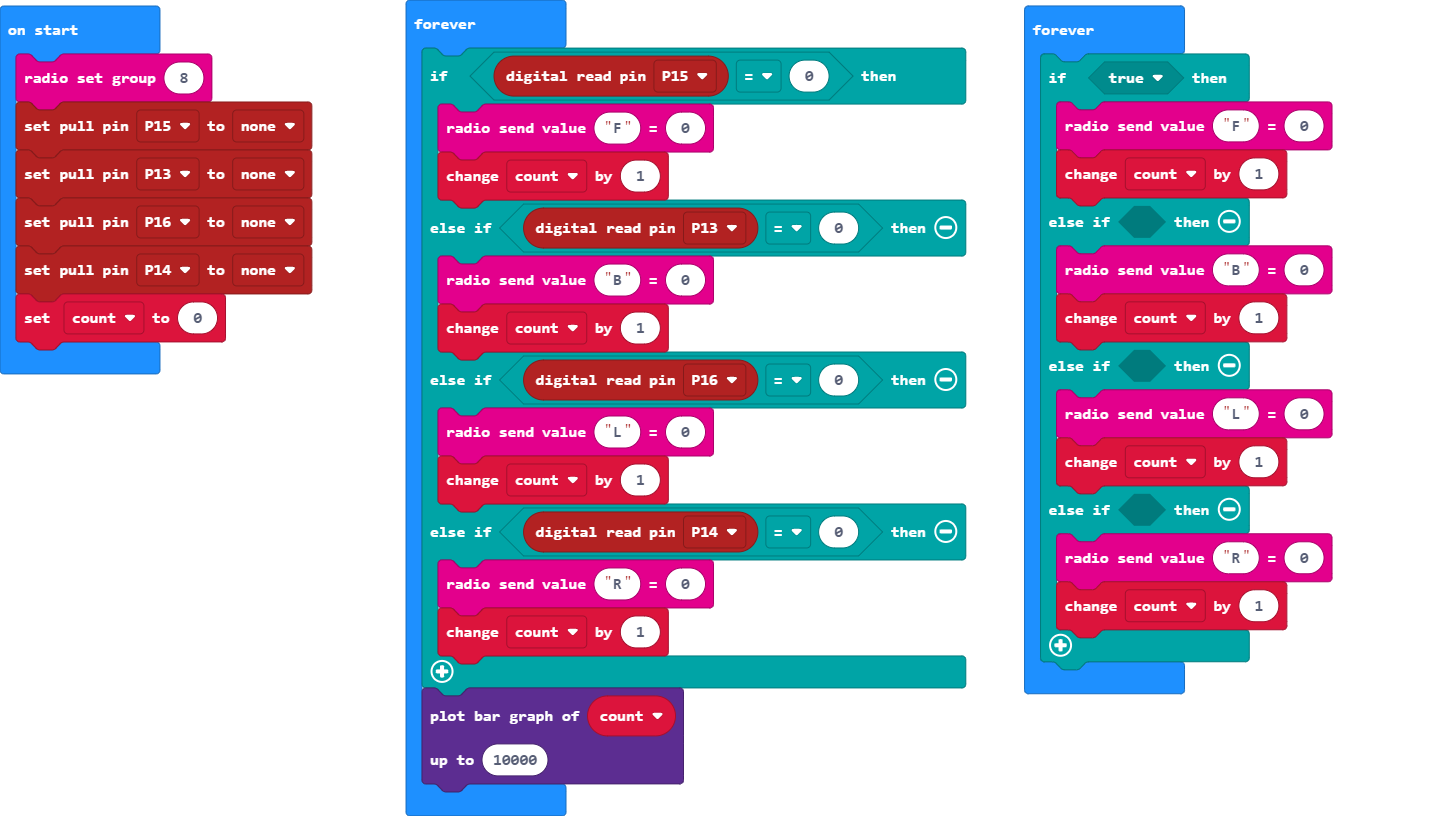
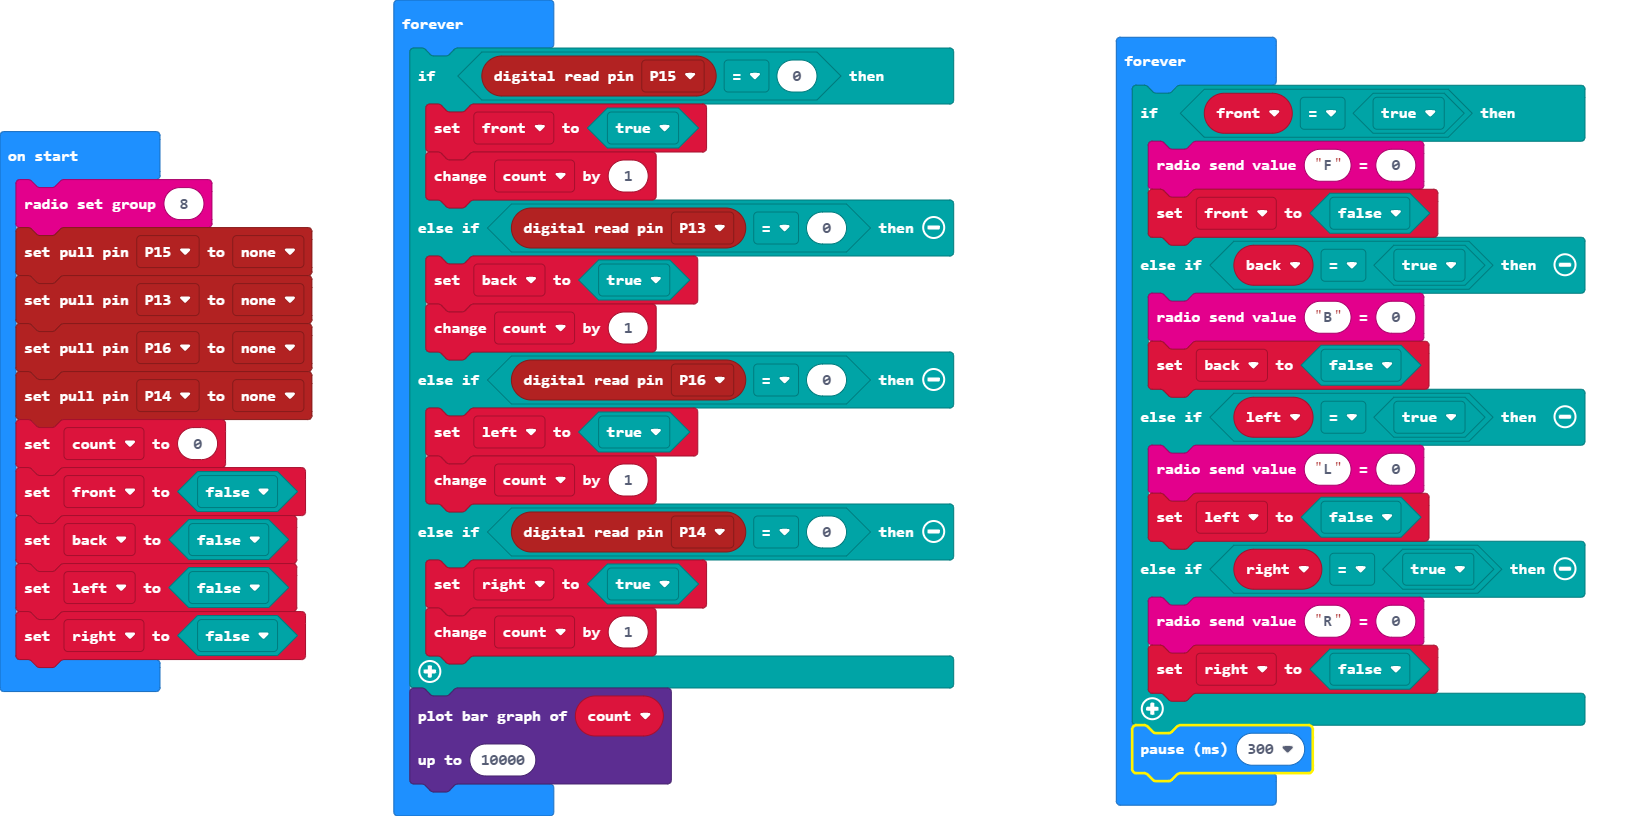
Update main.blocks, main.ts

diff --git a/main.ts b/main.ts
@@ -4,18 +4,22 @@ pins.setPull(DigitalPin.P13, PinPullMode.PullNone)
 pins.setPull(DigitalPin.P16, PinPullMode.PullNone)
 pins.setPull(DigitalPin.P14, PinPullMode.PullNone)
 let count = 0
+let front = false
+let back = false
+let left = false
+let right = false
 basic.forever(function () {
     if (pins.digitalReadPin(DigitalPin.P15) == 0) {
-        radio.sendValue("F", 0)
+        front = true
         count += 1
     } else if (pins.digitalReadPin(DigitalPin.P13) == 0) {
-        radio.sendValue("B", 0)
+        back = true
         count += 1
     } else if (pins.digitalReadPin(DigitalPin.P16) == 0) {
-        radio.sendValue("L", 0)
+        left = true
         count += 1
     } else if (pins.digitalReadPin(DigitalPin.P14) == 0) {
-        radio.sendValue("R", 0)
+        right = true
         count += 1
     }
     led.plotBarGraph(
@@ -24,17 +28,18 @@ basic.forever(function () {
     )
 })
 basic.forever(function () {
-    if (true) {
+    if (front == true) {
         radio.sendValue("F", 0)
-        count += 1
-    } else if (false) {
+        front = false
+    } else if (back == true) {
         radio.sendValue("B", 0)
-        count += 1
-    } else if (false) {
+        back = false
+    } else if (left == true) {
         radio.sendValue("L", 0)
-        count += 1
-    } else if (false) {
+        left = false
+    } else if (right == true) {
         radio.sendValue("R", 0)
-        count += 1
+        right = false
     }
+    basic.pause(300)
 })
